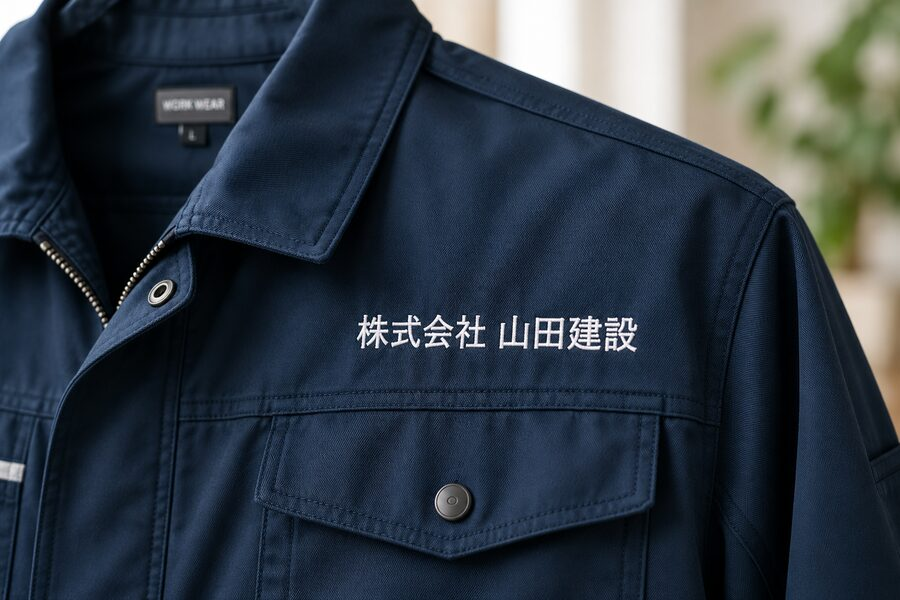
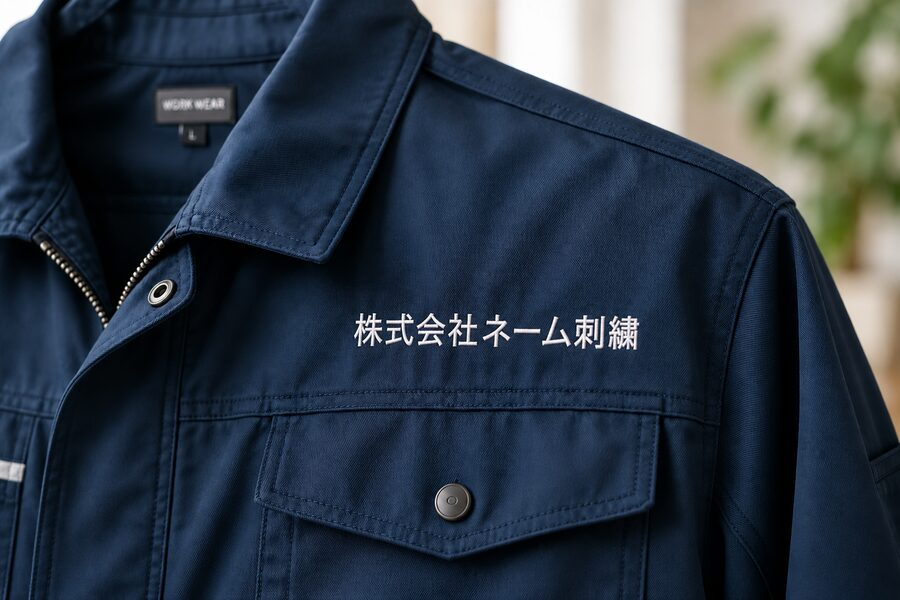
問い合わせフォームを足し、帯1枚目の社名を差し替えた
**送信先はメール1本**（サーバーを持たない静的サイトなので外部サービスも挟まない）。
種別を選ぶと項目と例文が変わり、件名と本文を組み立てた mailto: を作る。
ボタンではなくリンクにしてある ― 押す前に宛先が分かり、右クリックでコピーできる。

**この画面から送信は起きない。** 誤解されると「送ったのに返事が来ない」になるので、
その旨と宛先を文字でも出す。プライバシーポリシーの「フォーム送信の仕組みを
持っていません」も、入力欄はあるがサーバーへは送らない、と書き直した。

帯1枚目の作業着を「株式会社 山田建設」から「株式会社 ネーム刺繍」へ。

diff --git a/app/ContactForm.tsx b/app/ContactForm.tsx
@@ -1,0 +1,119 @@
+'use client'
+
+import { useState } from 'react'
+import { IconArrow, IconGuide, IconShop } from './Icons'
+
+const TO = 'contact@umidas.info'
+
+/**
+ * 問い合わせ。**送信先はメール1本**（この媒体はサーバーを持たない静的サイト）。
+ * 入力した内容はどこへも送信されず、ブラウザが作るメールの下書きに入るだけ。
+ * だから外部のフォームサービスを挟まずに済み、プライバシーポリシーの前提も変わらない。
+ *
+ * **メールアプリが開かない人のために、宛先は文字でも出しておく。**
+ */
+const KINDS = [
+  {
+    key: 'listing',
+    label: '掲載・訂正のご依頼',
+    who: '掲載店の方、掲載を希望される方',
+    icon: IconShop,
+    subject: '【掲載・訂正のご依頼】',
+    fields: true,
+    hint: '掲載は無料です。内容の訂正・削除もこちらから承ります。',
+    placeholder: '例）持ち込みは1枚から受けています。納期の記載を「3営業日」に直してください。',
+  },
+  {
+    key: 'feedback',
+    label: 'ご意見・情報提供',
+    who: '店を探している方',
+    icon: IconGuide,
+    subject: '【ご意見・情報提供】',
+    fields: false,
+    hint: 'この地域に店が無い、情報が古い、などお知らせください。個別の見積もりには対応できません。',
+    placeholder: '例）◯◯市に刺繍屋があります。／掲載の電話番号が変わっているようです。',
+  },
+] as const
+
+export function ContactForm() {
+  const [kind, setKind] = useState<(typeof KINDS)[number]['key']>('listing')
+  const [shop, setShop] = useState('')
+  const [url, setUrl] = useState('')
+  const [name, setName] = useState('')
+  const [body, setBody] = useState('')
+  const k = KINDS.find((x) => x.key === kind)!
+
+  // **ボタンではなくリンクにする。** 右クリックでコピーでき、押す前に宛先が分かる
+  const lines = [
+    ...(k.fields ? [`店名：${shop || '（未記入）'}`, `サイト：${url || '（未記入）'}`] : []),
+    `お名前：${name || '（未記入）'}`,
+    '',
+    body,
+    '',
+    '---',
+    'ネーム刺繍ナビ（https://name-shishu.com/）の問い合わせフォームから',
+  ]
+  const subject = k.subject + (k.fields && shop ? ` ${shop}` : '')
+  const mailto = `mailto:${TO}?subject=${encodeURIComponent(subject)}&body=${encodeURIComponent(lines.join('\n'))}`
+
+  return (
+    <div className="contact-box">
+      <fieldset className="contact-kind">
+        <legend className="sr-only">お問い合わせの種類</legend>
+        {KINDS.map((x) => (
+          <label key={x.key} className={`kind-btn${kind === x.key ? ' is-on' : ''}`}>
+            <input
+              type="radio"
+              name="contact-kind"
+              value={x.key}
+              checked={kind === x.key}
+              onChange={() => setKind(x.key)}
+            />
+            <x.icon size={22} />
+            <span>
+              <b>{x.label}</b>
+              <em>{x.who}</em>
+            </span>
+          </label>
+        ))}
+      </fieldset>
+
+      <p className="contact-hint">{k.hint}</p>
+
+      <div className="contact-fields">
+        {k.fields ? (
+          <>
+            <label className="field">
+              <span>店名</span>
+              <input value={shop} onChange={(e) => setShop(e.target.value)} placeholder="有限会社◯◯刺繍" />
+            </label>
+            <label className="field">
+              <span>サイトのURL</span>
+              <input value={url} onChange={(e) => setUrl(e.target.value)} placeholder="https://" inputMode="url" />
+            </label>
+          </>
+        ) : null}
+        <label className="field">
+          <span>お名前</span>
+          <input value={name} onChange={(e) => setName(e.target.value)} placeholder="森川" />
+        </label>
+        <label className="field field-wide">
+          <span>ご用件</span>
+          <textarea value={body} onChange={(e) => setBody(e.target.value)} rows={5} placeholder={k.placeholder} />
+        </label>
+      </div>
+
+      <div className="contact-foot">
+        <a className="btn" href={mailto}>
+          メールを作成する<IconArrow size={18} />
+        </a>
+        {/* **ここで送信は起きない。** 誤解されると「送ったのに返事が来ない」になる */}
+        <p className="muted">
+          押すとお使いのメールアプリが開きます。<b>この画面からは送信されません。</b>
+          <br />
+          開かないときは <a href={`mailto:${TO}`}>{TO}</a> へ直接お送りください。
+        </p>
+      </div>
+    </div>
+  )
+}

diff --git a/app/globals.css b/app/globals.css
@@ -730,3 +730,50 @@ main { padding-bottom: 8px; }
 .more-btn:hover { background: var(--accent-soft); border-color: color-mix(in srgb, var(--accent) 55%, var(--rule)); }
 .more-btn em { font-style: normal; font-size: 13px; font-weight: 600; color: var(--ink-3); }
 .facet-result .facet-shown { display: block; font-size: 12.5px; color: var(--ink-3); margin-top: 2px; }
+
+/* ── 問い合わせ ───────────────────────────────────── */
+.contact .wrap { padding-top: 52px; padding-bottom: 56px; }
+.contact-box {
+  max-width: 760px; margin: 30px auto 0; padding: 26px;
+  background: var(--surface); border: var(--edge); border-radius: 18px; box-shadow: var(--shadow);
+}
+/* 種別。**ラジオは隠してラベル全体を押せるようにする**（当たり判定を広く取る） */
+.contact-kind { display: grid; grid-template-columns: 1fr 1fr; gap: 10px; border: 0; margin: 0; padding: 0; }
+@media (max-width: 560px) { .contact-kind { grid-template-columns: 1fr; } }
+.kind-btn {
+  display: flex; align-items: center; gap: 11px; padding: 14px 16px; cursor: pointer;
+  border: var(--edge); border-radius: 12px; background: var(--surface); color: var(--ink-2);
+  transition: border-color .14s ease, background .14s ease;
+}
+/* **大きさは 0 にしない。** 0x0 の入力欄は支援技術から「無い」と扱われることがある */
+.kind-btn input { position: absolute; opacity: 0; width: 1px; height: 1px; margin: 0; }
+.kind-btn svg { color: var(--ink-3); flex: none; }
+.kind-btn span { display: flex; flex-direction: column; min-width: 0; }
+.kind-btn b { font-size: 14.5px; color: var(--ink); }
+.kind-btn em { font-style: normal; font-size: 12px; color: var(--ink-3); }
+.kind-btn:hover { border-color: color-mix(in srgb, var(--accent) 45%, var(--rule)); }
+.kind-btn.is-on { border-color: var(--accent); background: var(--accent-soft); }
+.kind-btn.is-on svg, .kind-btn.is-on b { color: var(--accent-ink); }
+/* キーボードで辿れることを見せる。**input を隠しただけだと焦点が分からない** */
+.kind-btn:has(input:focus-visible) { box-shadow: 0 0 0 3px var(--accent-soft); border-color: var(--accent); }
+
+.contact-hint { margin: 14px 2px 0; font-size: 13.5px; color: var(--ink-2); }
+
+.contact-fields { display: grid; grid-template-columns: 1fr 1fr; gap: 12px; margin-top: 16px; }
+@media (max-width: 560px) { .contact-fields { grid-template-columns: 1fr; } }
+.field { display: flex; flex-direction: column; gap: 5px; min-width: 0; }
+.field-wide { grid-column: 1 / -1; }
+.field > span { font-size: 12.5px; font-weight: 700; color: var(--ink-2); }
+.field input, .field textarea {
+  font: inherit; font-size: 15px; padding: 11px 13px; border-radius: 10px;
+  border: 1px solid var(--rule); background: var(--ground); color: var(--ink); width: 100%;
+  resize: vertical;
+}
+.field input:focus, .field textarea:focus {
+  outline: none; border-color: var(--accent); box-shadow: 0 0 0 3px var(--accent-soft);
+}
+.field input::placeholder, .field textarea::placeholder { color: color-mix(in srgb, var(--ink-3) 70%, transparent); }
+
+.contact-foot { display: flex; flex-wrap: wrap; align-items: center; gap: 14px 20px; margin-top: 20px; }
+.contact-foot .muted { margin: 0; font-size: 12.5px; line-height: 1.75; }
+.contact-foot .muted b { color: var(--ink-2); }

diff --git a/app/page.tsx b/app/page.tsx
@@ -2,6 +2,7 @@ import { Filter } from './Filter'
 import { Cards } from './ShopCard'
 import { guides } from '@/data/guides'
 import { HeroSearch } from './HeroSearch'
+import { ContactForm } from './ContactForm'
 import { Photo, hasPhoto } from './Photo'
 import {
   IconArrow, IconBag, IconCap, IconFlag, IconGuide,
@@ -256,6 +257,18 @@ export default function Home() {
             <a className="btn" href="/about/">この媒体について<IconArrow size={18} /></a>
           </div>
           <p className="script about-script" aria-hidden>Good Work<br />Better Tomorrow</p>
+        </div>
+      </section>
+
+      {/* ── 問い合わせ。**送信先はメール1本**（サーバーを持たないため） ────── */}
+      <section className="contact" id="contact">
+        <div className="wrap">
+          <h2 className="mid-title">お問い合わせ</h2>
+          <p className="mid-lead">
+            掲載のご依頼・内容の訂正、サイトへのご意見はこちらから。
+            <b>掲載料はいただいていません。</b>
+          </p>
+          <ContactForm />
         </div>
       </section>
 

diff --git a/app/privacy/page.tsx b/app/privacy/page.tsx
@@ -17,9 +17,11 @@ export default function Privacy() {
 
       <h2>1. 当サイトが集めていない情報</h2>
       <p>
-        当サイトは<b>会員登録・ログイン・フォーム送信の仕組みを持っていません</b>。
+        当サイトは<b>会員登録・ログインの仕組みを持っていません</b>。
         <b>Cookie も使用していません。</b>
         アクセス解析ツール（Google Analytics 等）も導入していません。
+        お問い合わせの入力欄はありますが、<b>入力した内容が当サイトのサーバーへ送られることはありません</b> ―
+        お使いのメールアプリの下書きが開くだけで、送信するかどうかはご本人が決められます。
       </p>
 
       <h2>2. お気に入りの保存について</h2>

diff --git a/app/HeaderNav.tsx b/app/HeaderNav.tsx
@@ -10,7 +10,7 @@ const LINKS = [
   { href: '/#guides', label: 'どこに頼むか迷ったら' },
   { href: '/favorites/', label: 'お気に入り' },
   { href: '/about/', label: 'この媒体について' },
-  { href: 'mailto:contact@umidas.info', label: '掲載・訂正のご依頼' },
+  { href: '/#contact', label: 'お問い合わせ' },
 ]
 
 export function HeaderNav() {
